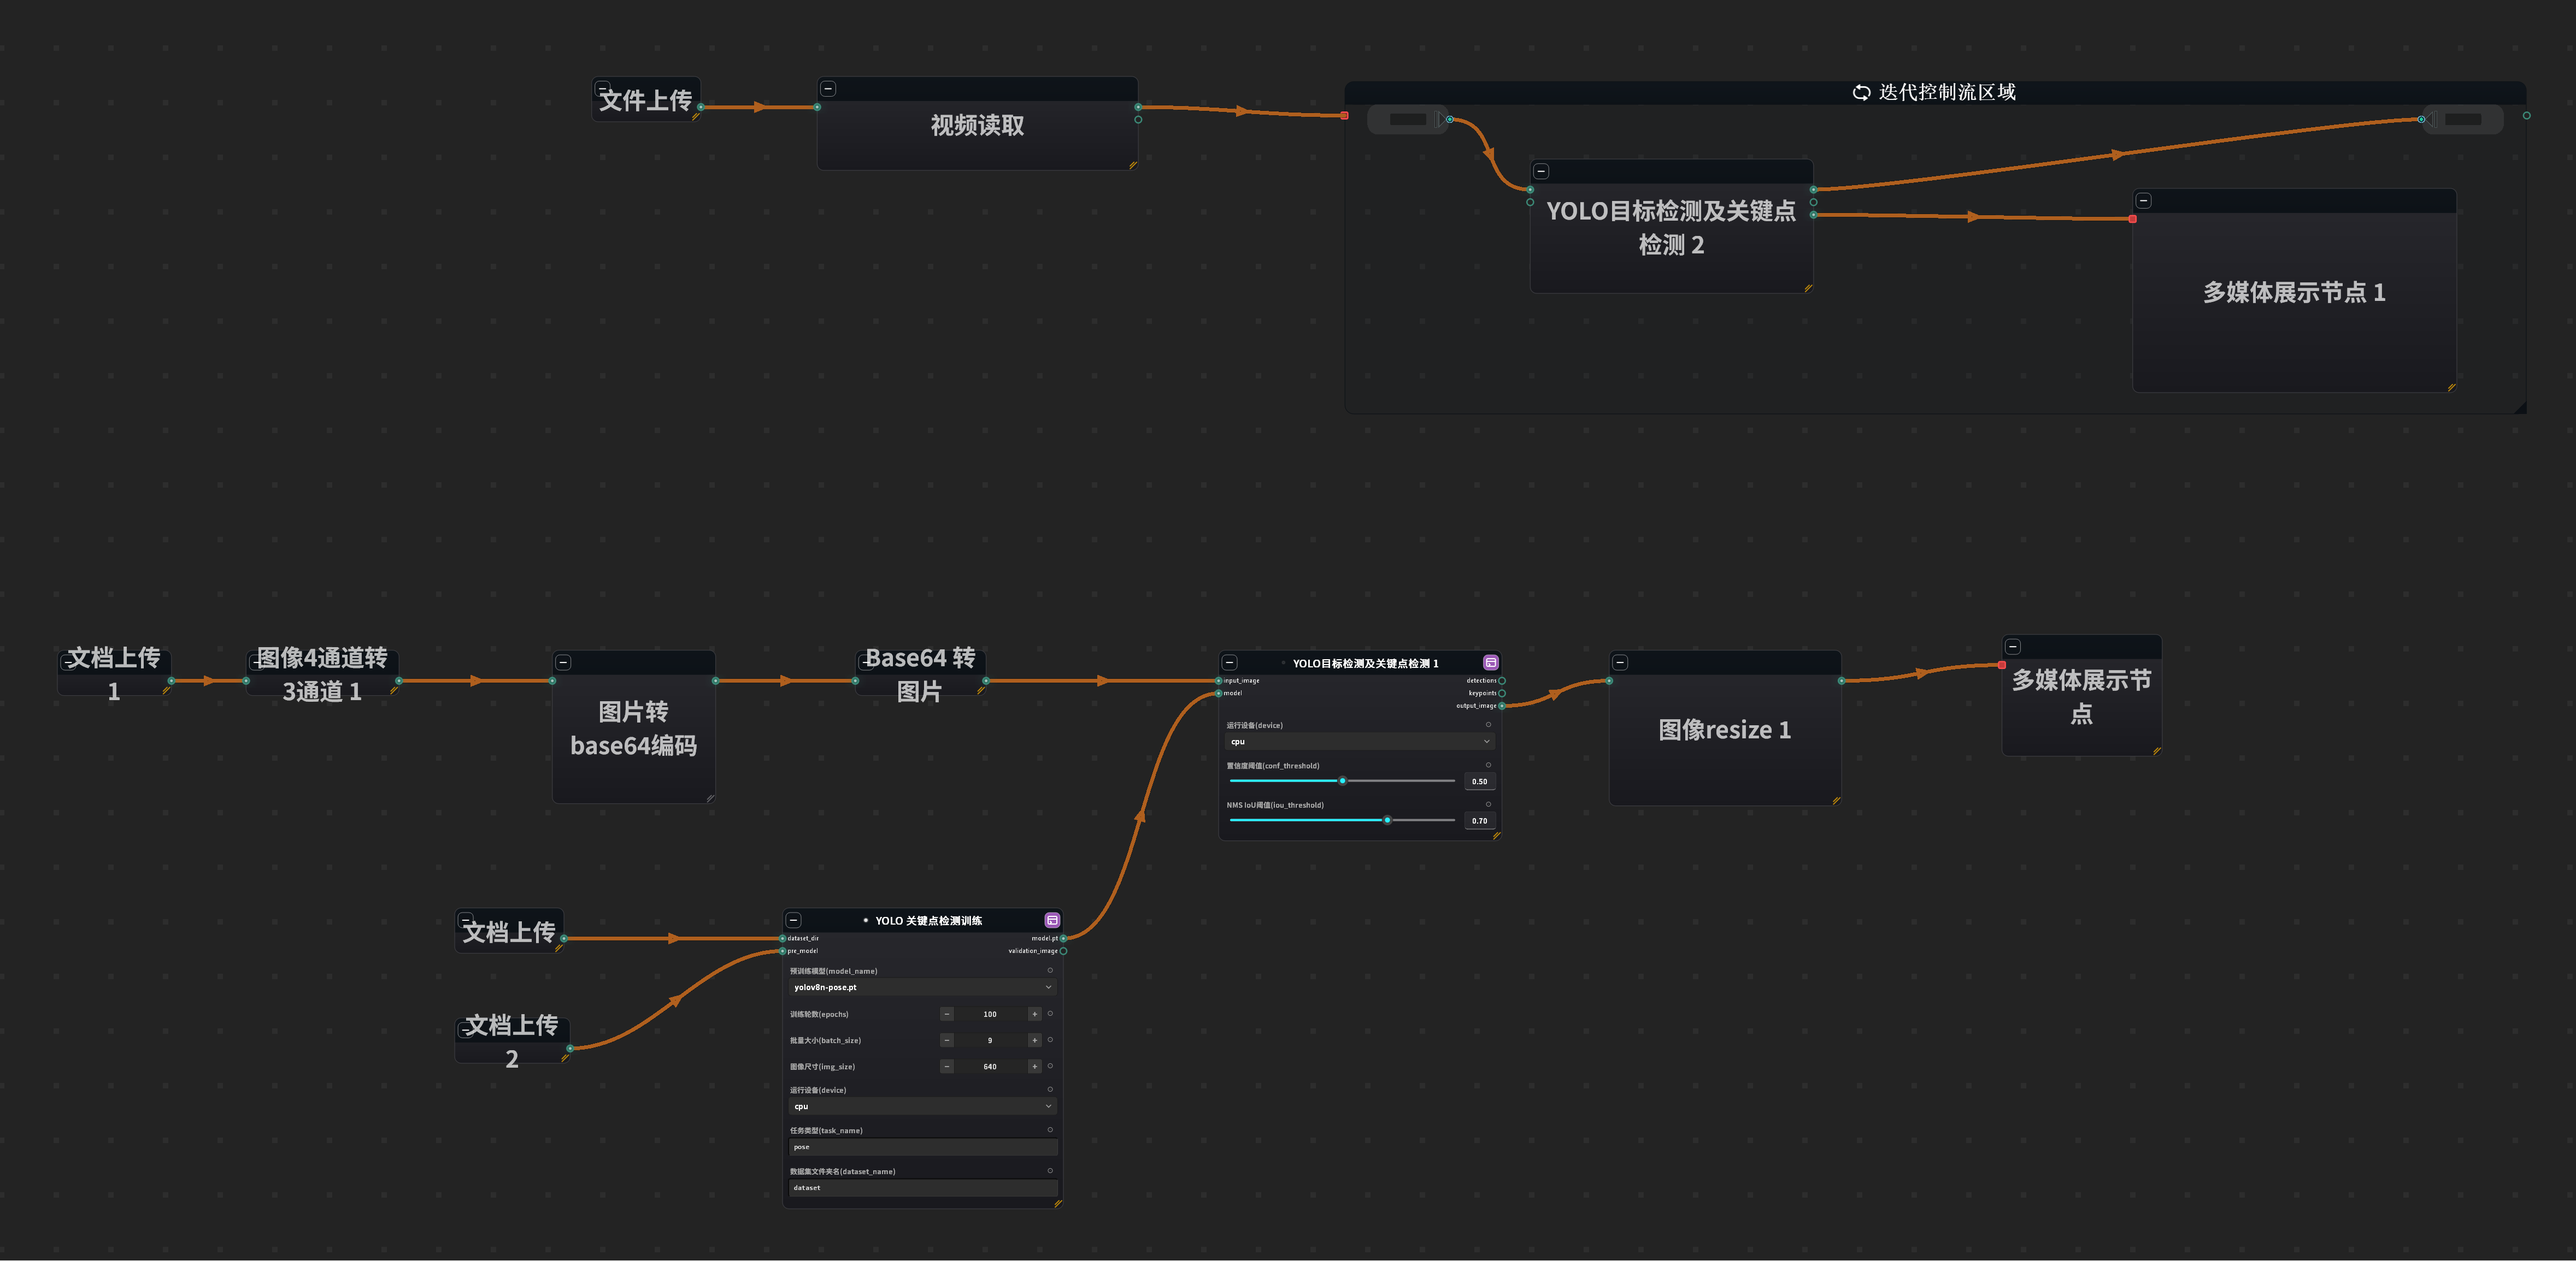
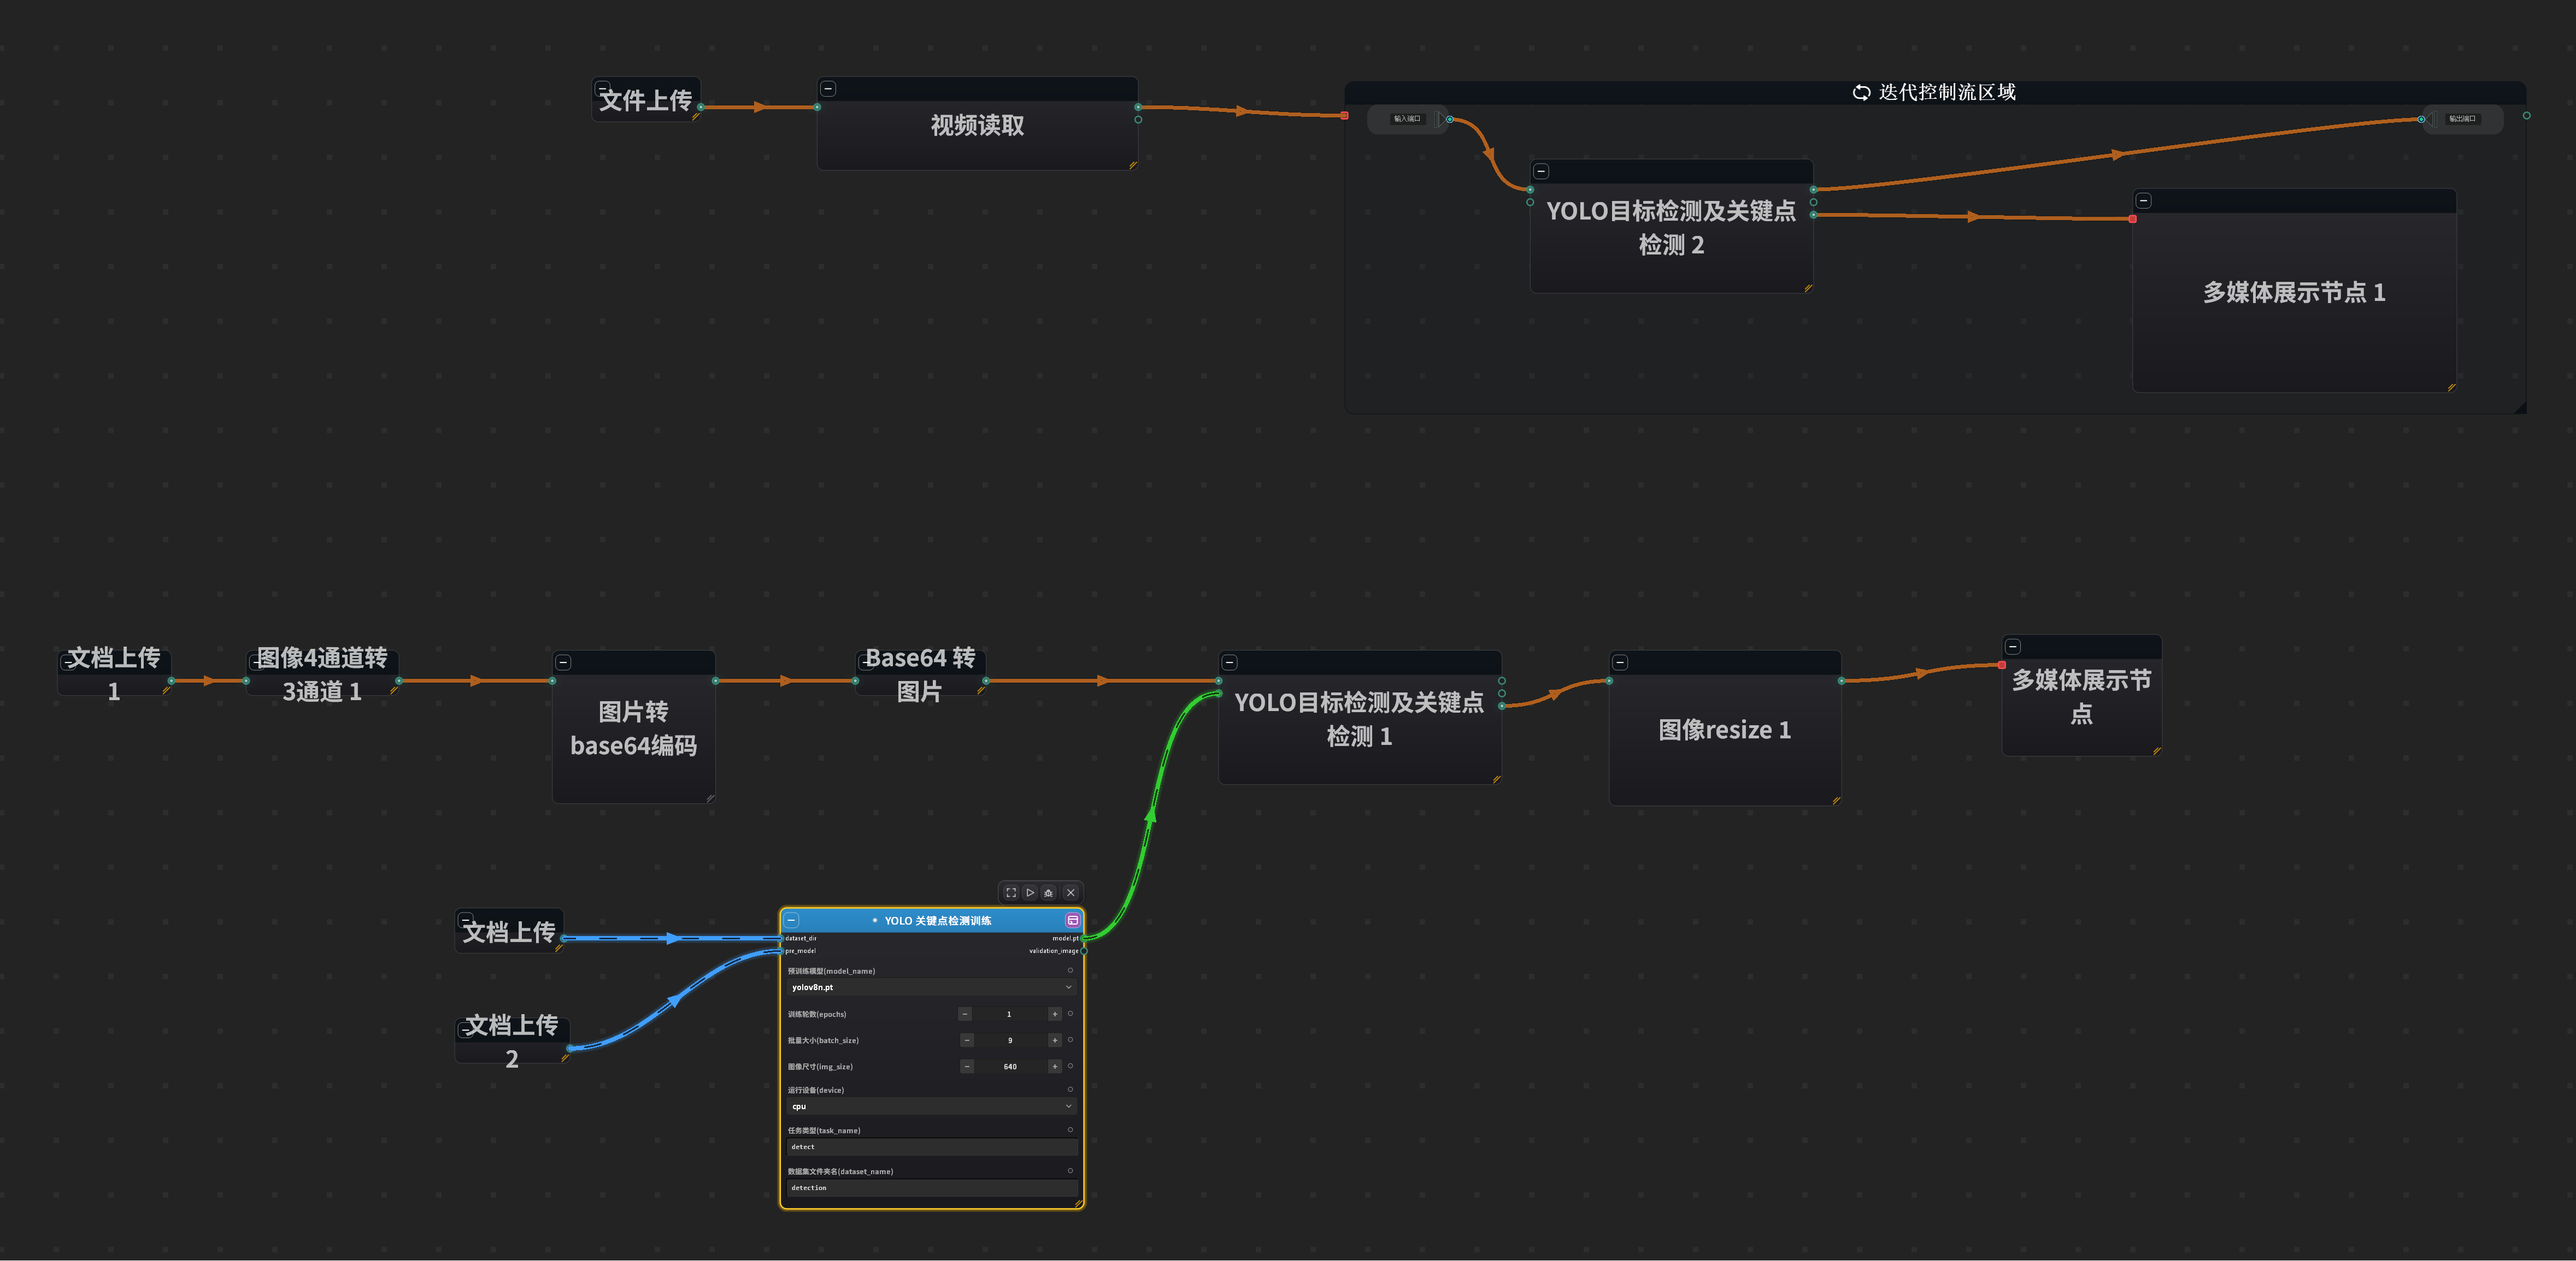
config(SERPAPI): 将硬编码API密钥迁移至配置管理
- 在Settings类中添加SERPAPI_KEY配置项
- 修改builtin_tools.py中的API密钥获取方式
- 使用Settings单例模式替代硬编码密钥值
- 更新工作流文件中的节点ID和配置参数
- 调整YOLO模型训练相关节点的属性设置

diff --git a/app/widgets/side_dock_area/plugins/llm_chatter/utils/builtin_tools.py b/app/widgets/side_dock_area/plugins/llm_chatter/utils/builtin_tools.py
@@ -16,6 +16,8 @@ import fnmatch
 
 from loguru import logger
 
+from app.utils.config import Settings
+
 
 class ToolResult:
     def __init__(self, success: bool, content: Any = None, error: str = None):
@@ -375,7 +377,7 @@ class BuiltinTools:
 
             api_key = (
                 os.environ.get("SERPAPI_KEY")
[1 lines of base64/hex data omitted]
+                or Settings.get_instance().SERPAPI_KEY.value
             )
 
             if api_key == "your-serpapi-key-here" or not api_key:

diff --git a/app/utils/config.py b/app/utils/config.py
@@ -313,3 +313,4 @@ class Settings(QConfig):
     GITEE_REPO = ConfigItem("Patch", "Gitee/Repo", "canvas-mind-components")
     GITEE_TOKEN = ConfigItem("Patch", "Gitee/Token", "a5dcb6e2e7776143b7a7e7685a1f33a3")
     GITEE_OWNER = ConfigItem("Patch", "Gitee/Owner", "dingmama123141")
[1 lines of base64/hex data omitted]
